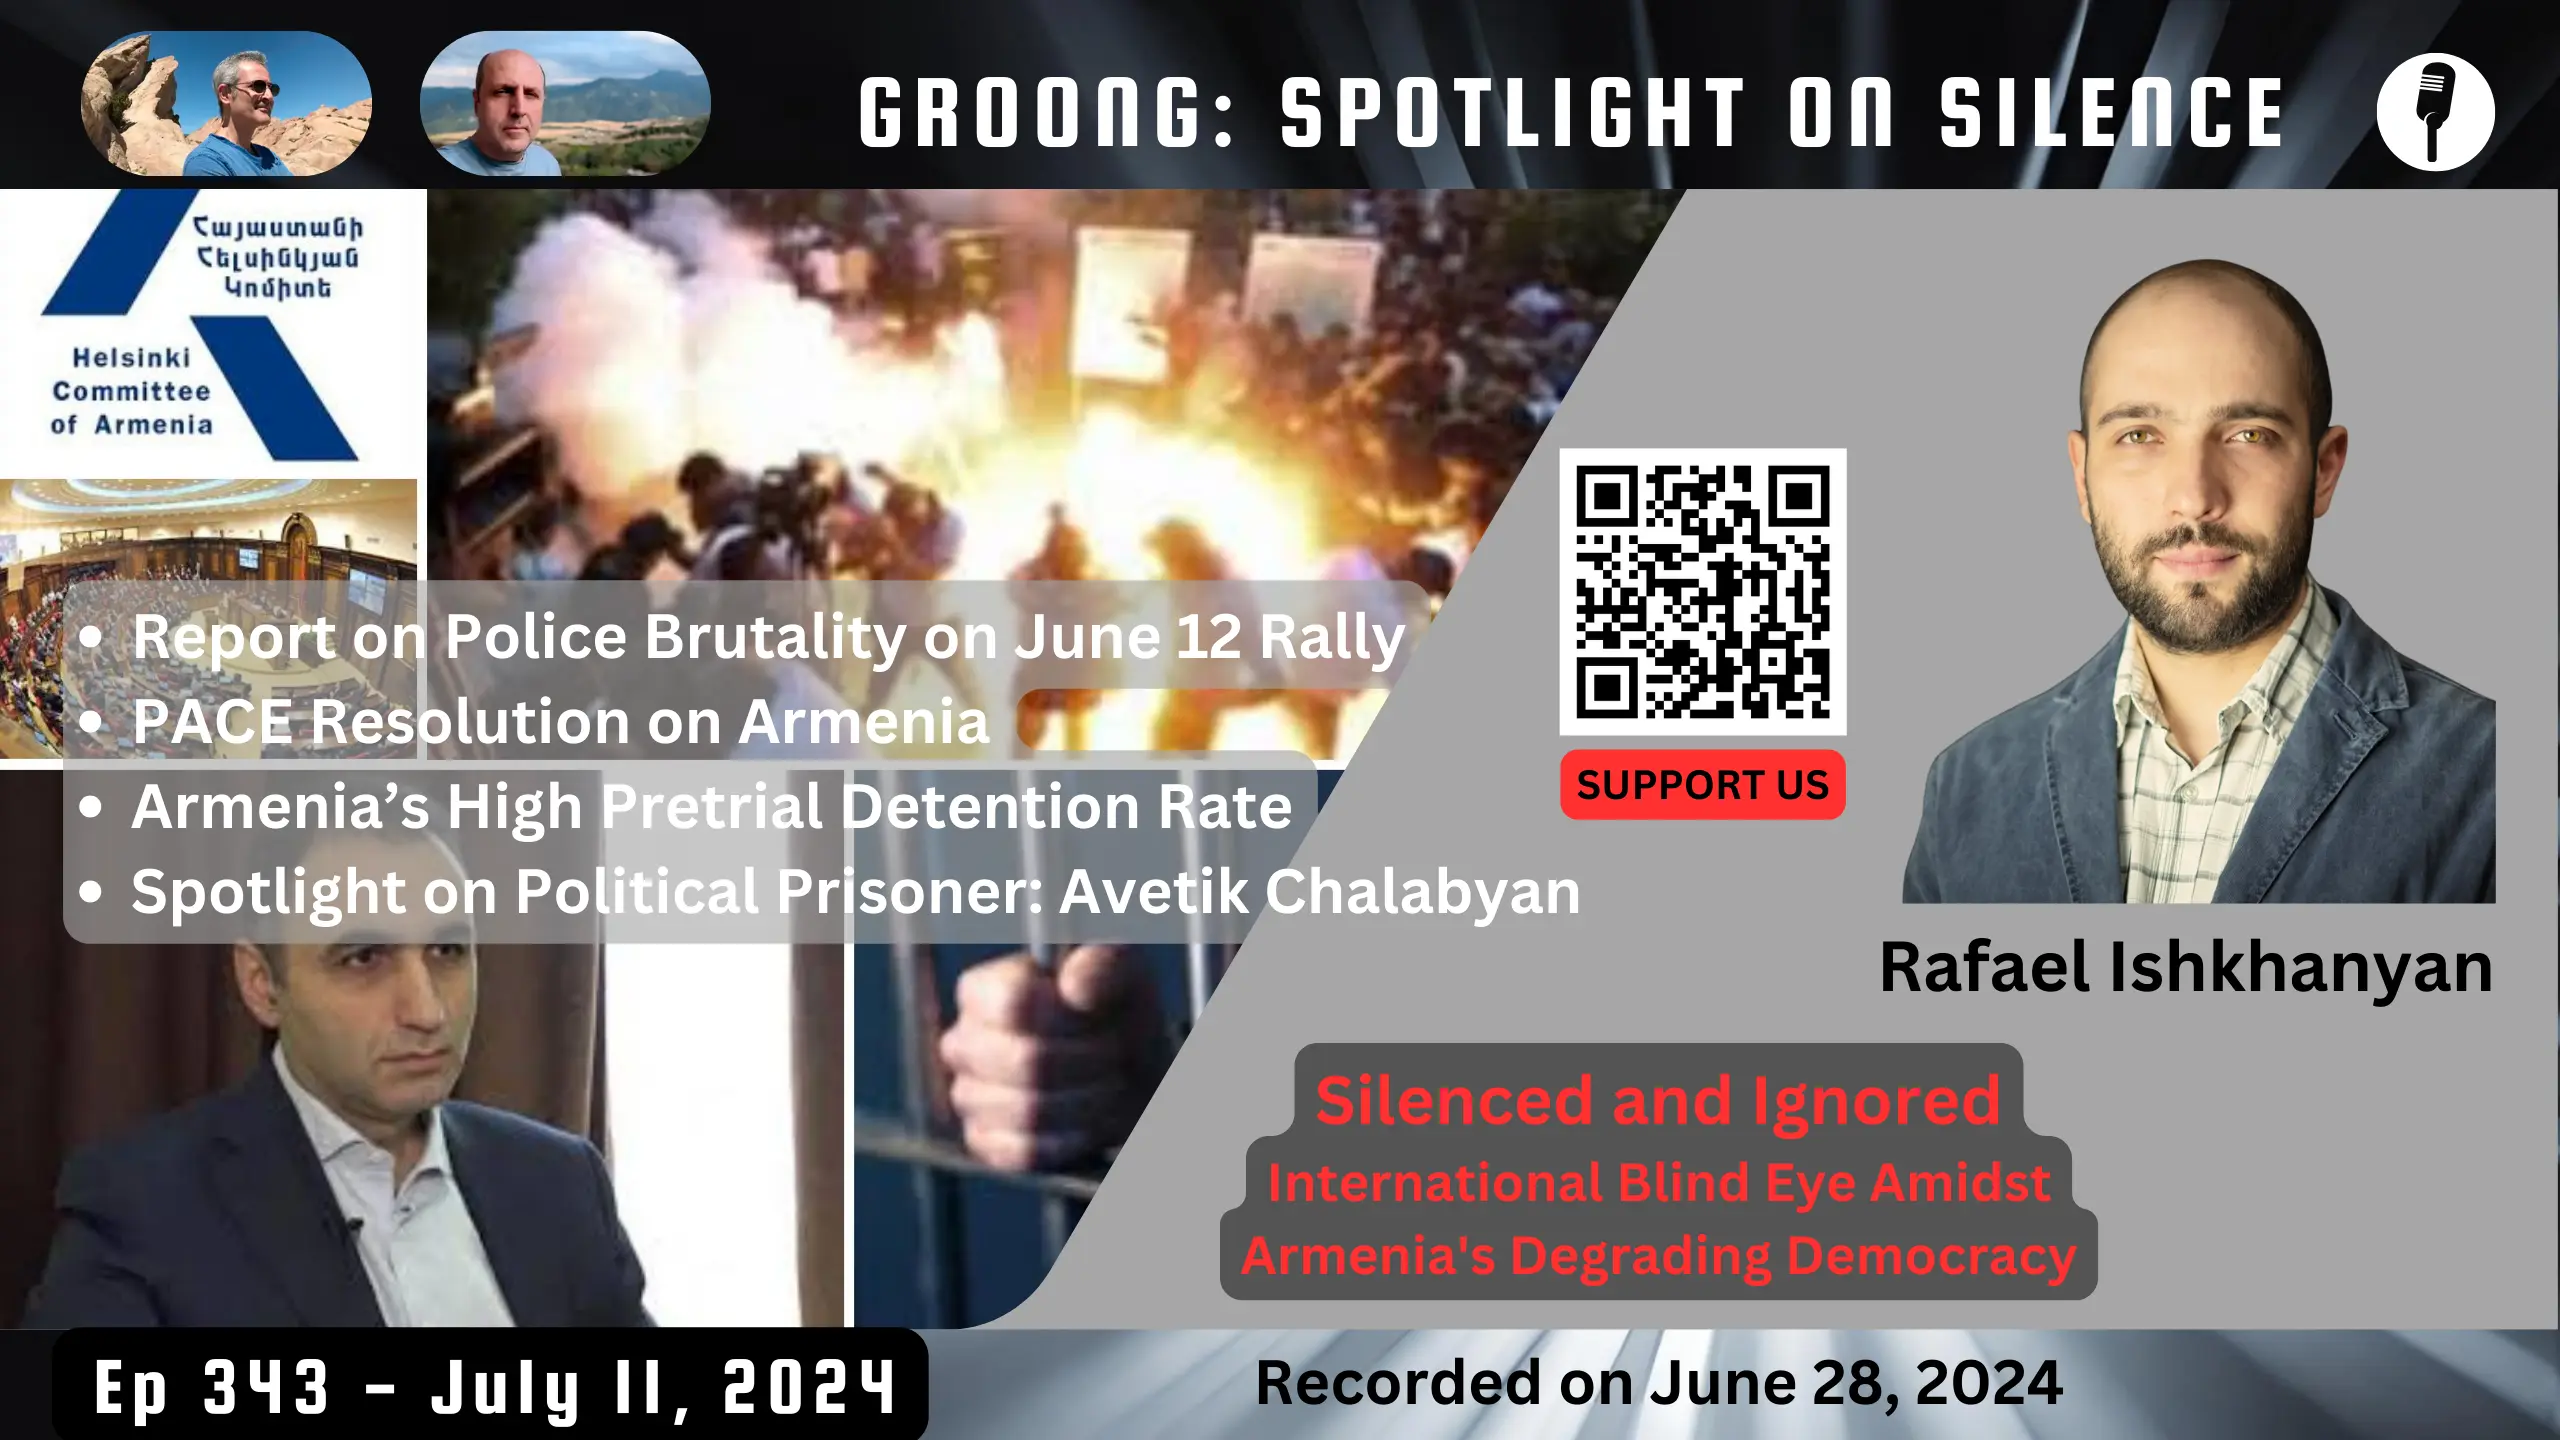
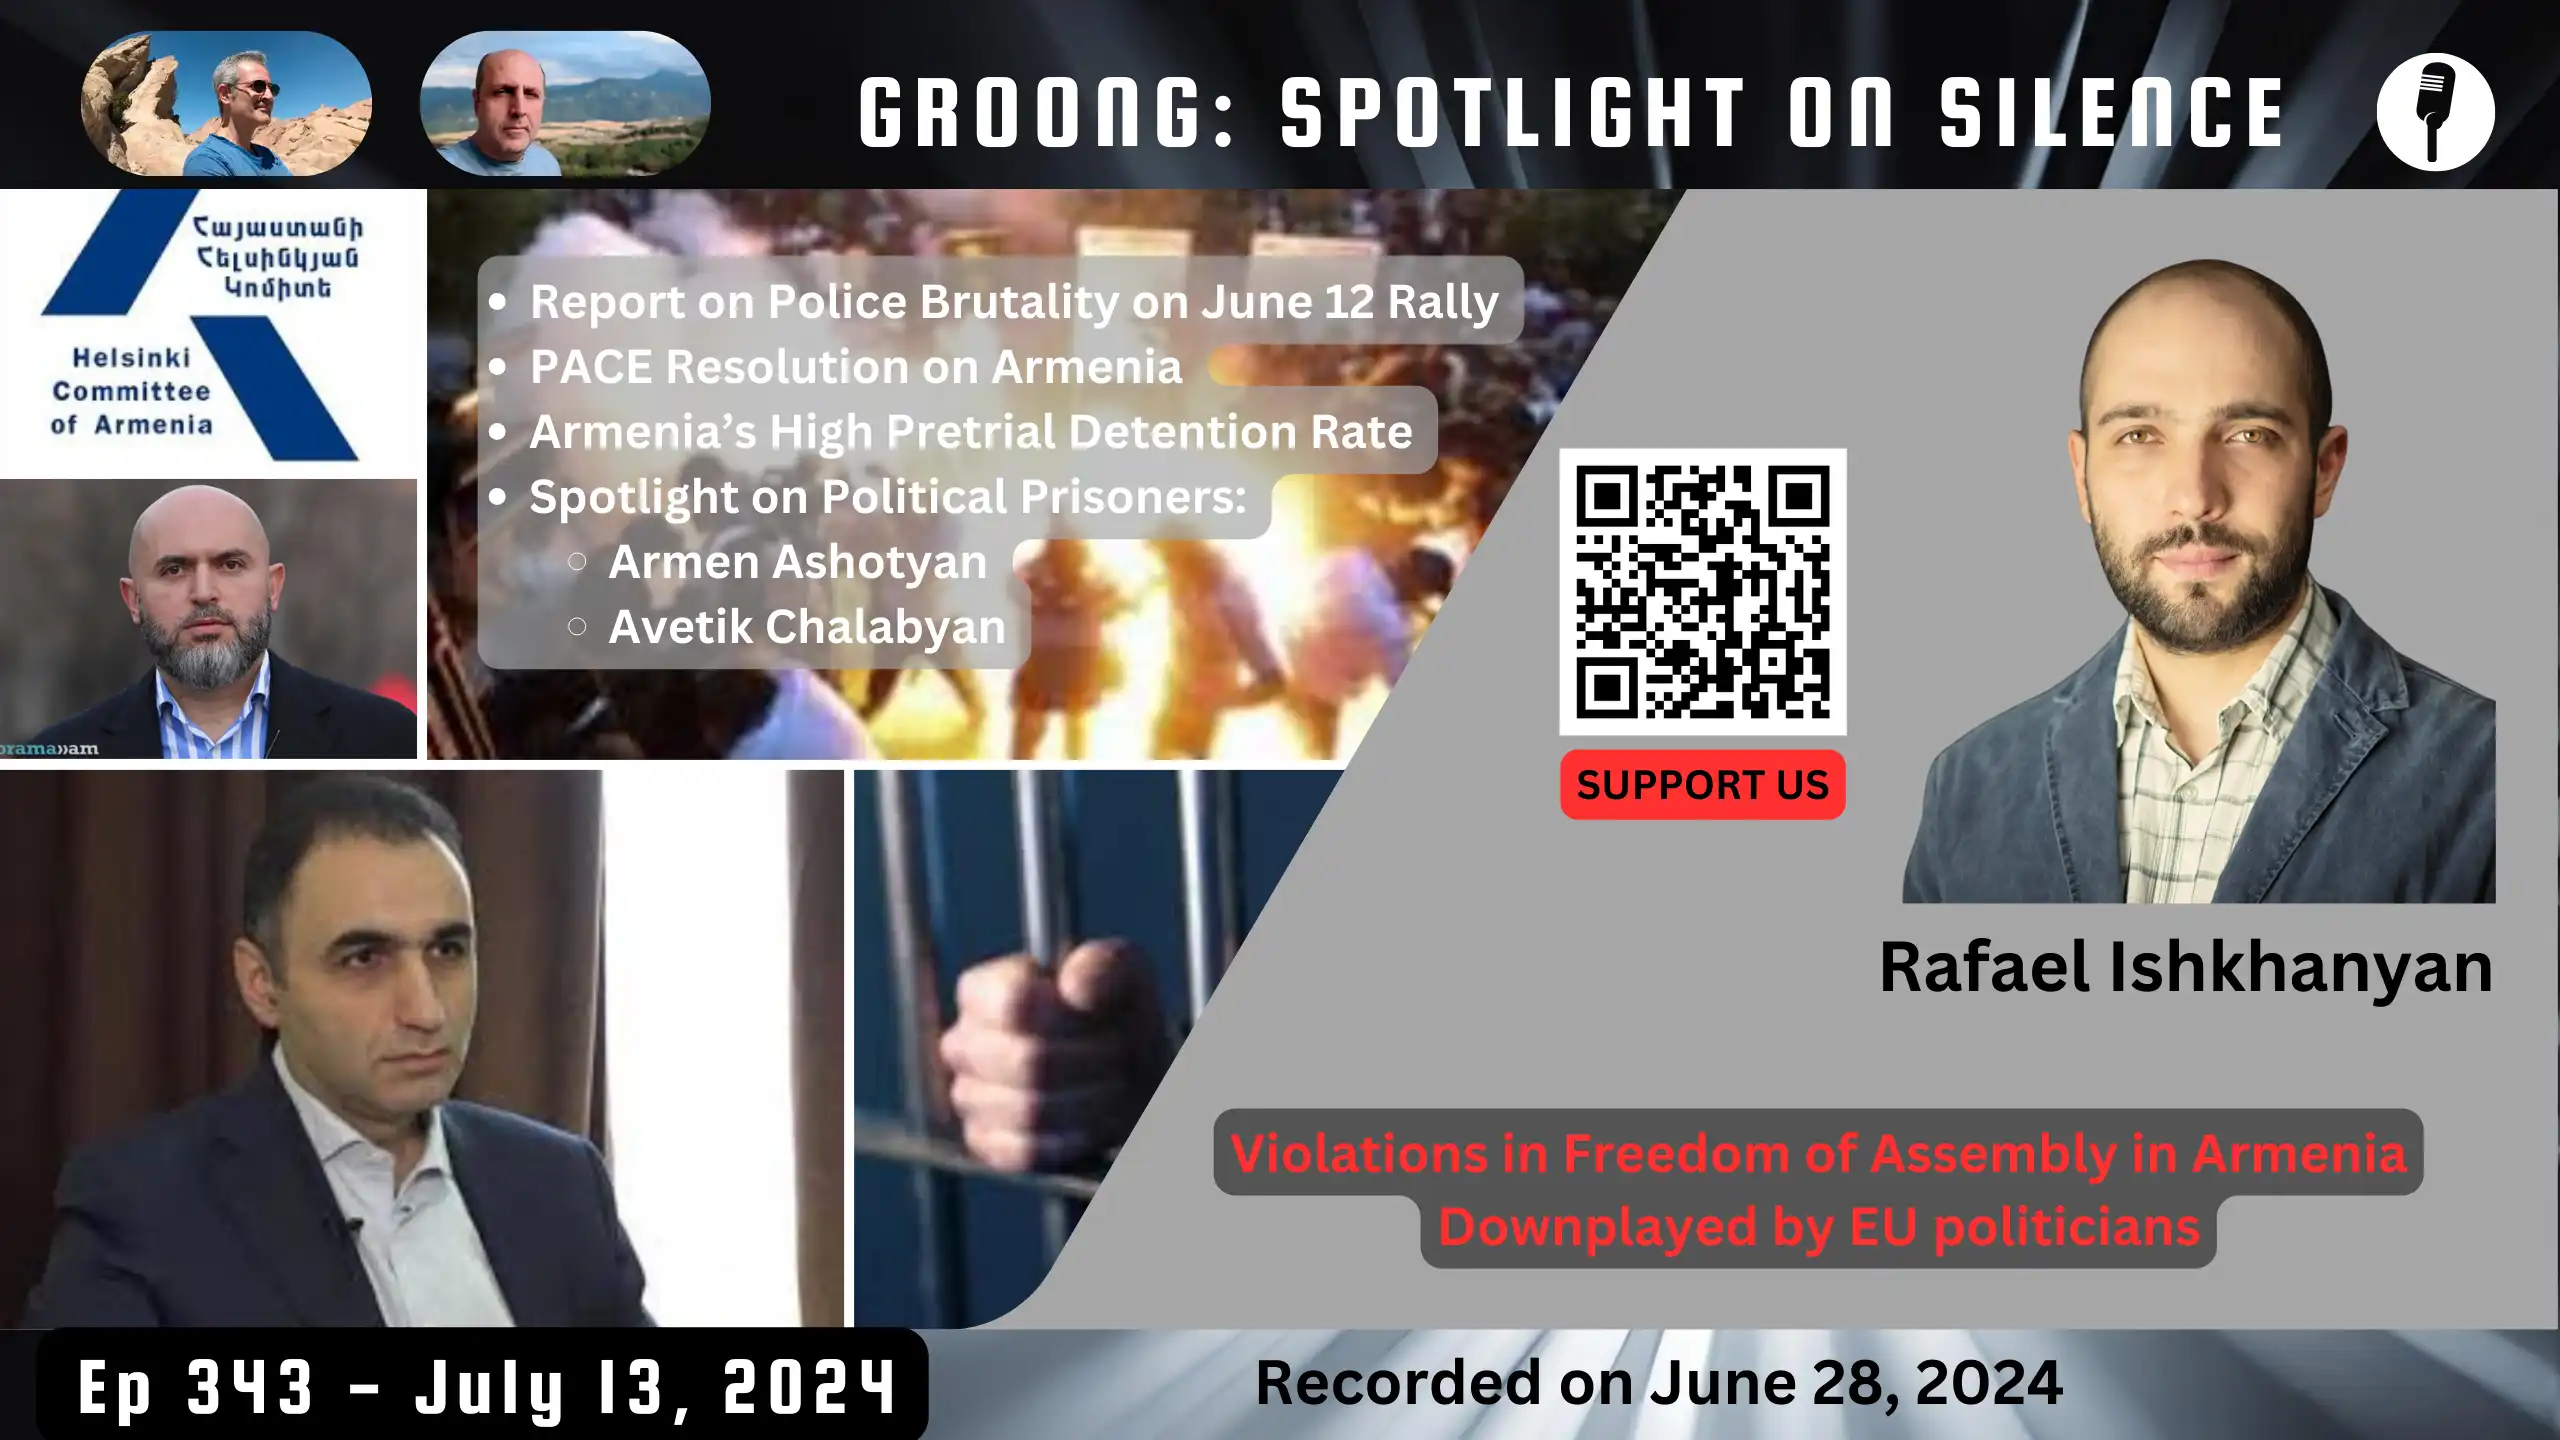
Updated Ep 343

Changed region(s): [[0.0, 0.1562, 0.625, 0.6562], [0.4688, 0.7188, 0.9688, 0.9062], [0.0312, 0.9375, 0.25, 1.0]]

diff --git a/content/episode/343-rafael-ishkhanyan-report-on-police-brutality-pace-resolution-armenia-high-pretrial-detention-rate-avetik-chalabyan.md b/content/episode/343-rafael-ishkhanyan-report-on-police-brutality-pace-resolution-armenia-high-pretrial-detention-rate-avetik-chalabyan.md
@@ -1,15 +1,15 @@
 +++
-Date = 2024-07-11T11:05:32+04:00
+Date = 2024-07-13T20:20:32+04:00
 upcoming = true
 
 title = "Rafael Ishkhanyan - Report on Police Brutality on June 12, Armenia High Pretrial Detention Rate, Acetic Chalabyan | Ep 343 - July 11, 2024"
 subtitle = "ANN Groong - Spotlight on Silence"
 
 
-podcast_file = ""
-podcast_bytes = ""
-podcast_duration = ""
-youtube = ""
+podcast_file = "15406871-rafael-ishkhanyan-june-12-pace-report-pretrial-detention-ashotyan-chalabyan-ep-343-jul-13-2024.mp3"
+podcast_bytes = "48369880"
+podcast_duration = "4028"
+youtube = "6f6o2RXkvmA"
 
 
 episode_image = "img/episode/343/thumbnail-343.webp"
@@ -37,11 +37,206 @@ Description = """
 #### Guest:
 * [Rafael Ishkhanyan](/guest/rishkhanyan)
 
-
 Episode 343 | Recorded: June 28, 2024
 """
 
 +++
+
+
+
+# Police Brutality and Freedom of Assembly
+
+
+## Report on Police Brutality on June 12 Rally
+
+So the [ACPR Ad Hoc report on June 12](https://drive.google.com/file/d/1vLjYN1c2lAHeCh1f3Nr1-ruFg3n06TwT/view) is out. On that day, the Pashinyan regime clearly showed that they’re ready and willing to use disproportionate force to suppress protesters. Up to a hundred people sought medical attention after the police lobbed dozens of stun grenades at the protesters, many of them were severely injured.
+
+Among the injured were several journalists, including Abraham Gasparyan from ABC Media. RSF (Reporters Without Borders) [criticized](https://rsf.org/en/protests-armenia-rsf-denounces-deliberate-police-violence-against-reporters) the Armenian police for “deliberately” targeting journalists. 
+
+NOTE: It’s important to highlight that the stun grenades that were used are reported to produce noise greater than 170dB, which can instantly cause permanent hearing damage. 
+
+Rafael, you were there on the scene that day, monitoring the protests.
+
+**Questions**:
+
+
+
+* Can you tell us what happened that day? How did everything start?
+* Was the police use of force proportional, or even justified?
+
+
+### Stun Grenades
+
+Your [report](https://drive.google.com/file/d/1vLjYN1c2lAHeCh1f3Nr1-ruFg3n06TwT/view) shows that some police officers were trying to maintain order, while others were agitating and fighting with protesters. 
+
+Then you also describe how, when the first stun grenades were employed, the situation was tense but not violent and it seems that the police initiated the violence.
+
+**Questions:**
+
+
+
+* Can you tell us more about why the police found it necessary to use stun grenades?
+* What type were they? How many were deployed?
+* Was the use justified by policies and regulations?
+
+
+## PACE Resolution on Armenia
+
+A [PACE report](https://pace.coe.int/pdf/f3e571f3281112b82c0b03440a1c991ce1ce21c624ee175091b291be8b1fb287?title=Doc.%2015994.pdf&fbclid=IwZXh0bgNhZW0CMTAAAR1HbeAnWJOz5amale5FAszz8wpM1TTG1hESS3f6XxHAa5lyk2y3k3bRcjw_aem_mp0NHHxw3kN8RYhtDL6yPg) on Armenia’s honoring of its obligations and commitments was just released.
+
+The report begins with: **_“The Parliamentary Assembly commends Armenia for its continuous commitment to democratic development in spite of the considerable security challenges it is facing”_**
+
+In an [interview](https://www.youtube.com/watch?v=EHtfHWwHJTI), Kimmo Kiljunen, one of the co-rapporteurs said that they’re assessing Armenia’s commitments to the EU “positively”, but said that there were a few “internal hiccups”. 
+
+Meanwhile, the other co-rapporteur, Boriana Åberg, [in her own interview](https://www.youtube.com/watch?v=xj_6-BiyvkQ), said that despite the war, the refugees from Artsakh, and challenges around the “peace agreement”, Armenia has been able to reform the electoral system as well as increase the independence of its judiciary. The only concern she could name was that the political climate is polarized, appearing to also lecture the opposition for being too radical.
+
+**Questions:**
+
+
+
+* What is your overall assessment of the report?
+* What “internal hiccups” is Kiljunen referring to?
+
+Shameful paragraph 4: **_“The Assembly expresses its relief that clashes (in Sep 2023) with the police forces during these events brought no casualties, in sharp contrast with the 10 deaths that had occurred in March 2008”_**
+
+**Questions:**
+
+
+
+* Is comparison with March 1 fair?
+    * Because it seems like Pashinyan’s government basically wrote some of the report for PACE and handed it to them. Paragraph 4 is the most basic Pashinyan propaganda.
+
+
+### Judicial Independence
+
+In 2023 the Freedom House Armenia [report](https://freedomhouse.org/country/armenia/freedom-net/2023) wrote: “**The judiciary lacks independence and is one of the least trusted public institutions in the country.”**
+
+The PACE report starts with: [paragraph] **_“15. The Assembly commends the reforms aimed at safeguarding the independence of the judiciary and notes with satisfaction the openness of the Armenian authorities to a genuine dialogue with the Council of Europe and their continued effort to improve the system of judicial governance in line with European standards”_**
+
+But it also mentions that there’s “widespread perception” that the disciplinary procedures against judges are being abused.
+
+The PACE report goes on to recommend that:
+
+
+
+* The Ethics and Disciplinary Commission of the General Assembly of Judges should be reformed
+* There should be restrictions for politicians from becoming members of the SJC
+
+**Questions**:
+
+
+
+* Did the report cover the issues with the Armenian judiciary adequately, in your opinion?
+    * NOTE: In the first installment of SoS, we talked about this.
+
+
+### Right To Peaceful Assembly
+
+The PACE report starts with: [paragraph] “101. Respect for the right to protest and response of law enforcement to protests have caused concerns.”
+
+The report then discusses Article 136 of the Armenian Criminal Code, which criminalizes “incentivized participation” in rallies, and which is against  the spirit of European guidelines on Peaceful Assembly.
+
+Interestingly the PACE report refers to Avetik Chalabyan’s case in paragraphs 103 and 104. Chalabyan himself [noted](https://verelq.am/hy/node/146983) this reference, adding that the Armenian Criminal Code was modified to add the unconstitutional Article 136, and added his voice to the ACPR and the Helsinki Committee of Armenia, urging authorities to get a second opinion from the Venice Commission.
+
+**Questions:**
+
+
+
+* What are your thoughts on Article 136? Is it unconstitutional?
+* If you read between the lines, The PACE report seems to be saying that since Chalabyan’s case, the government has been using Article 136 against the opposition liberally. Is the government applying Article 136 appropriately?
+
+
+## Armenia Has 2nd Highest Pretrial Detention Rate
+
+Armenia, due to social cohesion, is relatively crime-free. However, Armenia has the #2 highest rate of pretrial detentions (53%) in Council of Europe, which is one of the tools that Pashinyan punishes political opponents.
+
+In other words, more people are in prison in pre-trial detention than those serving actual jail time as part of a criminal verdict.
+
+Top pre-trial detention countries:
+
+
+
+* Albania (55%)
+* **Armenia (53%)**
+* Luxembourg (49%)
+* Switzerland (46%)
+* The Netherlands (45%)
+* Montenegro (42%)
+* Northern Ireland (UK) (41%)
+
+
+
+<p id="gdcalert1" ><span style="color: red; font-weight: bold">>>>>>  gd2md-html alert: inline image link here (to images/image1.png). Store image on your image server and adjust path/filename/extension if necessary. </span><br>(<a href="#">Back to top</a>)(<a href="#gdcalert2">Next alert</a>)<br><span style="color: red; font-weight: bold">>>>>> </span></p>
+
+
+![alt_text](images/image1.png "image_tooltip")
+
+
+ 
+
+Data:
+
+
+
+* [https://wp.unil.ch/space/space-i/annual-reports/](https://wp.unil.ch/space/space-i/annual-reports/) 
+
+When we say political persecution, we keep thinking about the standard cases of political imprisonment.
+
+Questions:
+
+
+
+* What can you say about pretrial detention?
+
+
+## Spotlight on Prisoners/Cases
+
+
+### Armen Ashotyan
+
+One of Pashinyan’s most prominent political opponents. 
+
+[Charged](https://www.investigative.am/en/news/armen-ashotyan-the-ra-former-minister-chairman-of-the-board-of-trustees-of-the-foundation-of-yerevan-state-medical-university-after-mkhitar-heratsi-arrested-for-violation-of-conditions-of-pretrial-measure-video-photos) in 2022 with abuse of official position and money laundering while holding the position of the Chairman of the Board of Trustees of YSMU named after Mkhitar Heratsi, as well as the Minister of Education and Science. Alleged to have “pushed” Rector Narimanyan to buy apartments from the "Tsovasar" hotel complex belonging to Ishkhan Saghatelyan's family on behalf of the university. Initially released on bail with signature not to leave the country.
+
+In June 15, 2023, re-arrested for violating the terms of his bail by allegedly attempting to “influence the investigation” by offering the services of his lawyers to the witnesses. Ashotyan’s attorney Tigran Atanesyan denies attempts to influence the preliminary investigation and reports that the apartments purchased on behalf of the medical university are still on the university's balance sheet, and their market value has even increased, which excludes money laundering and other accusations.
+
+None of the intermediaries accused of taking part in this crime are under arrest, only Ashotyan is, highlighting the political nature of this case. Conditions of his detention (strict restriction of contacts/visitation) also indicative of political motivations (compare with fmr. Minister of Economy Vahan Kerobyan suspected of corruption, but received a house arrest).
+
+**Detention**: June 15, 2023 - Present (~12+ months so far)
+
+
+### Avetik Chalabyan
+
+Avetik Chalabyan has been a prominent opposition politician, and has been a scathing critic of Pashinyan, as well as his proposed constitutional rewrite, education reforms and more. In 2022 he was charged with “motivating students materially” to participate in opposition rallies. In 2023 he co-founded the [Hayaqve](https://www.instagram.com/hayaqve/?hl=en) legislative initiative. Ultimately a guilty verdict was issued in Dec. 2023, banning Chalabyan from organizing & participating in assemblies for 2.5 years.
+
+Freedom of assembly, as well as other human rights, are constitutional rights that can only be restricted when the following three norms are simultaneously satisfied:
+
+1. to be provided for by law
+2. to be necessary in a democratic society
+3. to pursue a legitimate goal
+
+Detentions: May 14, 2022 - July 27, 2022, July 31, 2022 - August 31, 2022 , Released on AMD 15M bail (~4 months total)
+
+Status: Currently under appeal.
+
+Details: [Joint Report by Helsinki Committee of Armenia and Armenian Center for Political Rights](https://armhels.com/wp-content/uploads/2024/01/Joint_Report_HCA_ACPR_10.01.2024_ARM_REVISED-1.pdf)
+
+**Questions:**
+
+* Tell us more about Avetik Chalabyan, is he a political prisoner in his own country?
+
+### Documents: 
+
+
+* [Report: The honouring of obligations and commitments by Armenia](https://pace.coe.int/pdf/f3e571f3281112b82c0b03440a1c991ce1ce21c624ee175091b291be8b1fb287)
+* [Armenia: while welcoming the electoral reforms implemented, PACE regrets the excessive polarisation of the political climate](https://pace.coe.int/en/news/9538/armenia-while-welcoming-the-electoral-reforms-implemented-pace-regrets-the-excessive-polarisation-of-the-political-climate)
+* [OSCE / ODIHR GUIDELINES ON FREEDOM OF PEACEFUL ASSEMBLY](https://www.venice.coe.int/webforms/documents/default.aspx?pdffile=CDL-AD(2019)017rev-e) (3rd ed) \
+
+
+### Interviews:
+
+* [PACE's Boriana Åberg on the honouring of obligations and commitments by Armenia](https://www.youtube.com/watch?v=xj_6-BiyvkQ)
+* [PACE's Kimmo Kiljunen on the honouring of obligations and commitments by Armenia](https://www.youtube.com/watch?v=EHtfHWwHJTI)
 
 
 # Wrap-up
